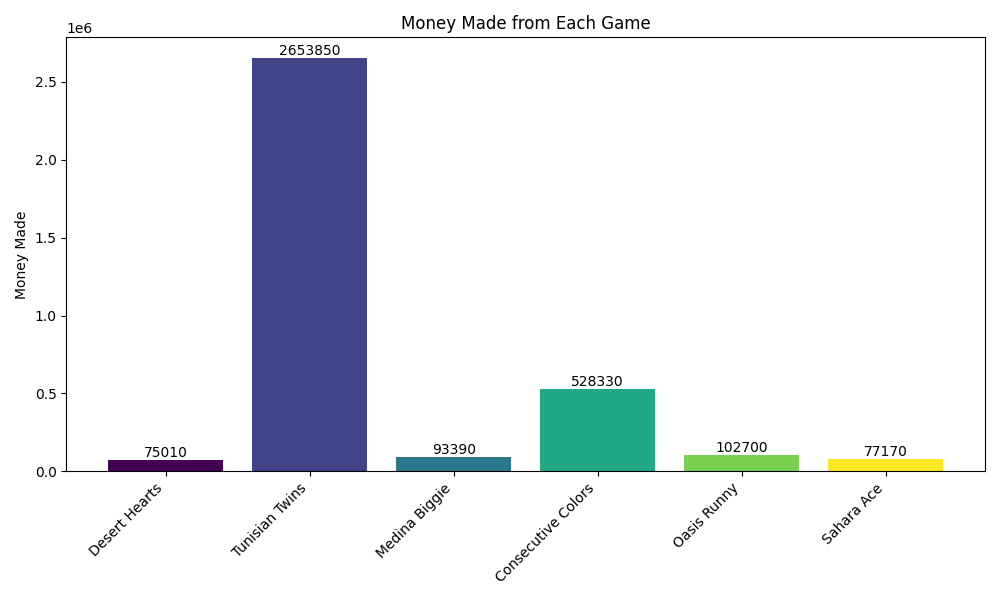
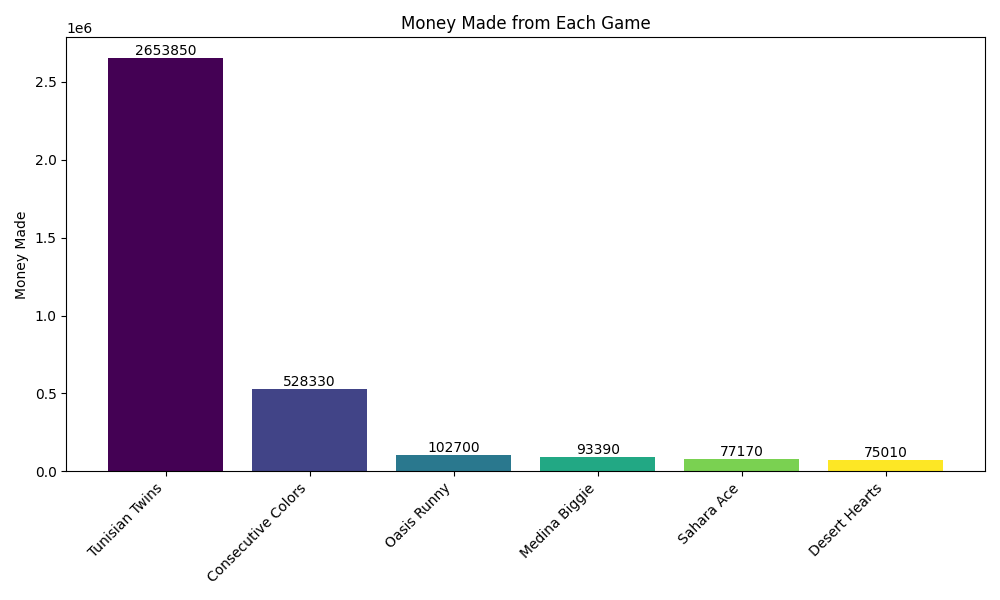
sort money made chart : Descending

diff --git a/games_functions.py b/games_functions.py
@@ -151,7 +151,11 @@ def save_probability_bar_chart(game_names, probabilities, filename):
     plt.savefig(filename)
     plt.close()
 
-def save_money_made_bar_chart(game_names, money_made, filename):
+def save_money_made_bar_chart(game_names, money_made, filename, sort_descending=False):
+    if sort_descending:
+        sorted_data = sorted(zip(game_names, money_made), key=lambda x: x[1], reverse=True)
+        game_names, money_made = zip(*sorted_data)
+
     plt.figure(figsize=(10, 6))
     colors = plt.cm.viridis(np.linspace(0, 1, len(game_names)))
     bars = plt.bar(game_names, money_made, color=colors)
@@ -162,6 +166,7 @@ def save_money_made_bar_chart(game_names, money_made, filename):
     plt.tight_layout()
     plt.savefig(filename)
     plt.close()
+
 
 def add_value_labels(bars):
     for bar in bars:

diff --git a/main.py b/main.py
@@ -35,7 +35,7 @@ def main():
 
     # Generate and save vertical bar charts with labels
     save_probability_bar_chart(game_names, probabilities, "winning_probability_bar_chart.png")
-    save_money_made_bar_chart(game_names, money_made, "money_made_bar_chart.png")
+    save_money_made_bar_chart(game_names, money_made, "money_made_bar_chart.png",sort_descending=True)
 
     print("Bar charts successfully saved in the current working directory.")
 if __name__ == "__main__":
